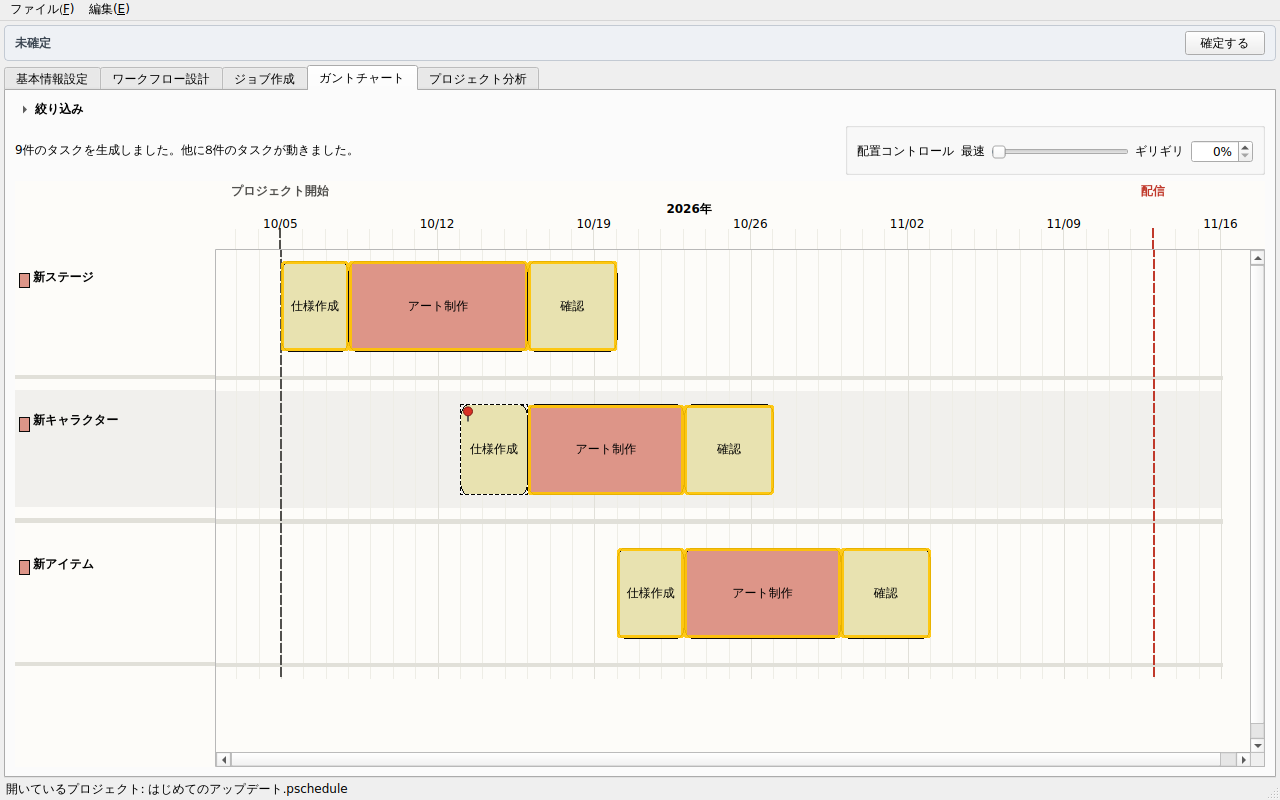
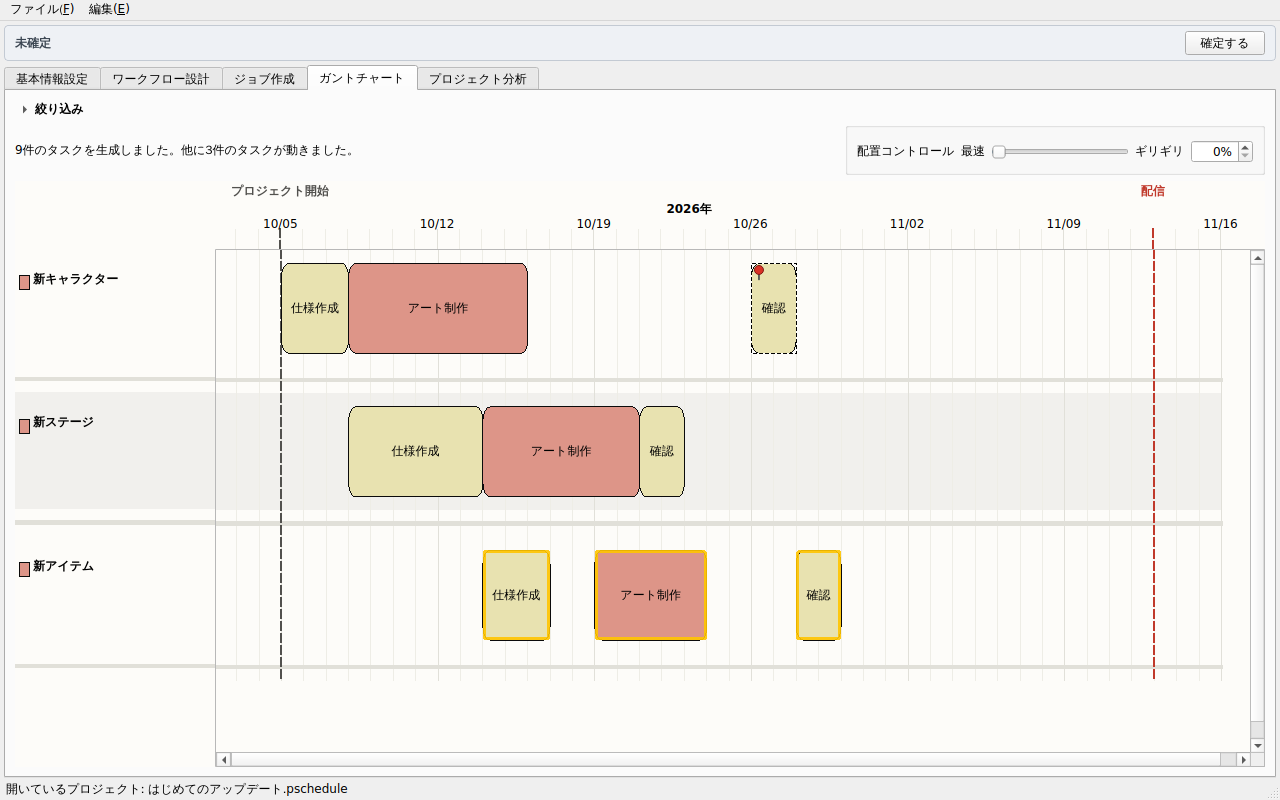
docs(user_guide): 図の番号を上から下の順に振り、ドラッグの例を重ならない形に変える
- 画面写真の番号の目印を上から下（同じ高さは左から右）の順に振り直し、
  執筆方針にも加える
- Shift＋ドラッグの例を、行の最後のタスク（確認）を右の空いている所へ
  動かす形に変え、影がほかのバーと重ならないようにする

Claude-Session: https://claude.ai/code/session_012h8HJR22sGEB7n6794ZBWj

diff --git a/scripts/user_guide/capture_screenshots.py b/scripts/user_guide/capture_screenshots.py
@@ -311,7 +311,8 @@ SHOTS = [
     ("tutorial_3_jobs", _tutorial(3), _show_tab(TAB_JOBS)),
     ("tutorial_4_gantt", _tutorial(4), _show_tab(TAB_GANTT, needs_schedule=True)),
     # 5章 ガントチャートの編集（チュートリアル手順4の状態を使う）
-    ("gantt_drag", _tutorial(4), _gantt_drag("新キャラクター", "仕様作成", 7), (0, 180, 800, 200)),
+    # 影がほかのバーと重ならないよう、行の最後のタスクを右の空いている所へ動かす
+    ("gantt_drag", _tutorial(4), _gantt_drag("新キャラクター", "確認", 10), (0, 180, 900, 200)),
     ("gantt_after_edit", _tutorial(4), _gantt_after_edit),
     ("gantt_editor", _tutorial(4), _gantt_editor("新アイテム", "アート制作")),
     ("tutorial_5_gantt", _tutorial(5), _show_tab(TAB_GANTT, needs_schedule=True)),

diff --git a/docs/user_guide/ja/05_tabs.md b/docs/user_guide/ja/05_tabs.md
@@ -252,24 +252,24 @@ Delete キーで固定を外せます。
 <figure>
 <div class="annotated">
 <img src="images/gantt_legend.png" alt="バーの見た目の例">
-<span class="pin" style="left:30%;top:32.5%">1</span>
-<span class="pin" style="left:41.5%;top:44%">2</span>
-<span class="pin" style="left:38.8%;top:69.5%">3</span>
-<span class="pin" style="left:34.3%;top:78.5%">4</span>
-<span class="pin" style="left:36%;top:23.8%">5</span>
-<span class="pin" style="left:1.3%;top:19%">6</span>
+<span class="pin" style="left:1.3%;top:19%">1</span>
+<span class="pin" style="left:36%;top:23.8%">2</span>
+<span class="pin" style="left:30%;top:32.5%">3</span>
+<span class="pin" style="left:41.5%;top:44%">4</span>
+<span class="pin" style="left:38.8%;top:69.5%">5</span>
+<span class="pin" style="left:34.3%;top:78.5%">6</span>
 </div>
 <figcaption>バーの見た目の例</figcaption>
 </figure>
 
 | | 見た目 | 意味 |
 | --- | --- | --- |
-| <span class="pinref">1</span> | 黒い細枠のバー | 通常のタスク |
-| <span class="pinref">2</span> | **赤い太枠**のバー | 締切（マイルストーン）に間に合わないタスク |
-| <span class="pinref">3</span> | **オレンジの破線の枠**のバー | 開始固定日どおりに置けないタスク（依存やライン数と矛盾しているため、固定した日より後ろに置かれています） |
-| <span class="pinref">4</span> | 左上に**赤いピン**が付いたバー | 開始固定日が設定されているタスク |
-| <span class="pinref">5</span> | 赤い縦の破線 | マイルストーンの締切（上に名前） |
-| <span class="pinref">6</span> | 上部の文字 | 作られたタスクの件数。締切に間に合わないタスクや、固定どおりに置けないタスクがあると、その件数と内容が赤字で出ます |
+| <span class="pinref">1</span> | 上部の文字 | 作られたタスクの件数。締切に間に合わないタスクや、固定どおりに置けないタスクがあると、その件数と内容が赤字で出ます |
+| <span class="pinref">2</span> | 赤い縦の破線 | マイルストーンの締切（上に名前） |
+| <span class="pinref">3</span> | 黒い細枠のバー | 通常のタスク |
+| <span class="pinref">4</span> | **赤い太枠**のバー | 締切（マイルストーン）に間に合わないタスク |
+| <span class="pinref">5</span> | **オレンジの破線の枠**のバー | 開始固定日どおりに置けないタスク（依存やライン数と矛盾しているため、固定した日より後ろに置かれています） |
+| <span class="pinref">6</span> | 左上に**赤いピン**が付いたバー | 開始固定日が設定されているタスク |
 
 このほか、今日の日付には青い縦線が引かれます。
 バーにマウスを乗せると、そのタスクの日程や締切からの遅れなどが表示されます。
@@ -325,10 +325,10 @@ Ctrl を押しながらクリックすると追加で選べます。
 <figure>
 <div class="annotated">
 <img src="images/gantt_drag.png" alt="バーをドラッグしているところ">
-<span class="pin" style="left:35.1%;top:40.5%">1</span>
-<span class="pin" style="left:57.6%;top:40.5%">2</span>
+<span class="pin" style="left:58.7%;top:40.5%">1</span>
+<span class="pin" style="left:83.6%;top:40.5%">2</span>
 </div>
-<figcaption>「新キャラクター」の仕様作成を Shift ＋ドラッグで後ろへ動かしているところ</figcaption>
+<figcaption>「新キャラクター」の確認を Shift ＋ドラッグで後ろへ動かしているところ</figcaption>
 </figure>
 
 | | 意味 |
@@ -345,11 +345,11 @@ Ctrl を押しながらクリックすると追加で選べます。
 <figure>
 <div class="annotated">
 <img src="images/gantt_after_edit.png" alt="動かした後のガントチャート">
-<span class="pin" style="left:30.5%;top:18.8%">1</span>
-<span class="pin" style="left:36.5%;top:52.5%">2</span>
-<span class="pin" style="left:21.5%;top:32.5%">3</span>
+<span class="pin" style="left:29.5%;top:18.8%">1</span>
+<span class="pin" style="left:58.8%;top:32.9%">2</span>
+<span class="pin" style="left:37.8%;top:68.9%">3</span>
 </div>
-<figcaption>動かした後。仕様作成を後ろにずらしたので、プランナーの手が空き、ほかのジョブが前に詰まりました</figcaption>
+<figcaption>動かした後。新キャラクターの確認を後ろにずらしたので、その間プランナーの手が空き、新アイテムが前に詰まりました</figcaption>
 </figure>
 
 | | 意味 |

diff --git a/docs/user_guide/outline.md b/docs/user_guide/outline.md
@@ -31,7 +31,8 @@
 5. **HTMLガントチャート出力は特色として扱わない。** ガントチャートの節で操作だけ短く書く。
 6. **サンプルファイルの配布には触れない。** 画面の例はサンプルを使うが、「付属のサンプルを開く」
    のような記載はしない（配るかどうかは未定のため）。
-7. **未実装の機能は載せない**（プロジェクト分析タブの要注意タスク一覧・タブ間連携など）。
+7. **画面写真の番号の目印は、上から下へ順に振る。** 同じ高さのものは左から右へ。表の説明も同じ順に並べる。
+8. **未実装の機能は載せない**（プロジェクト分析タブの要注意タスク一覧・タブ間連携など）。
 
 ## 目次と各章の要点
 
